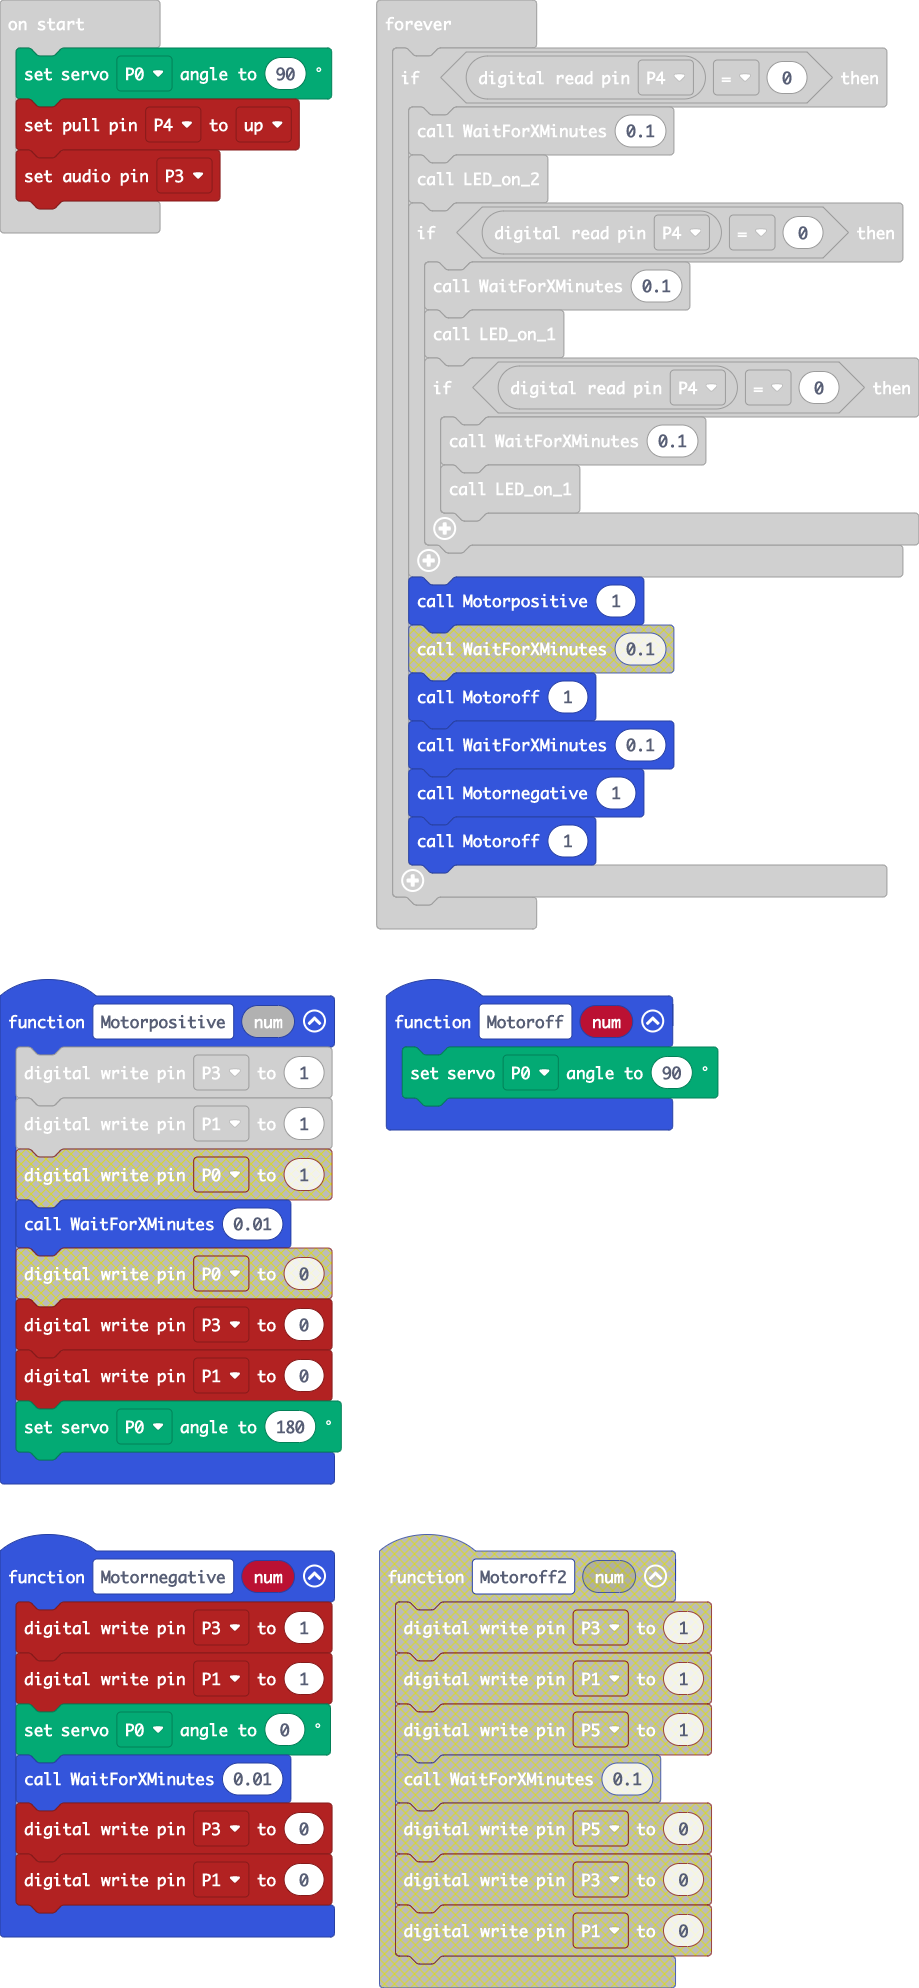
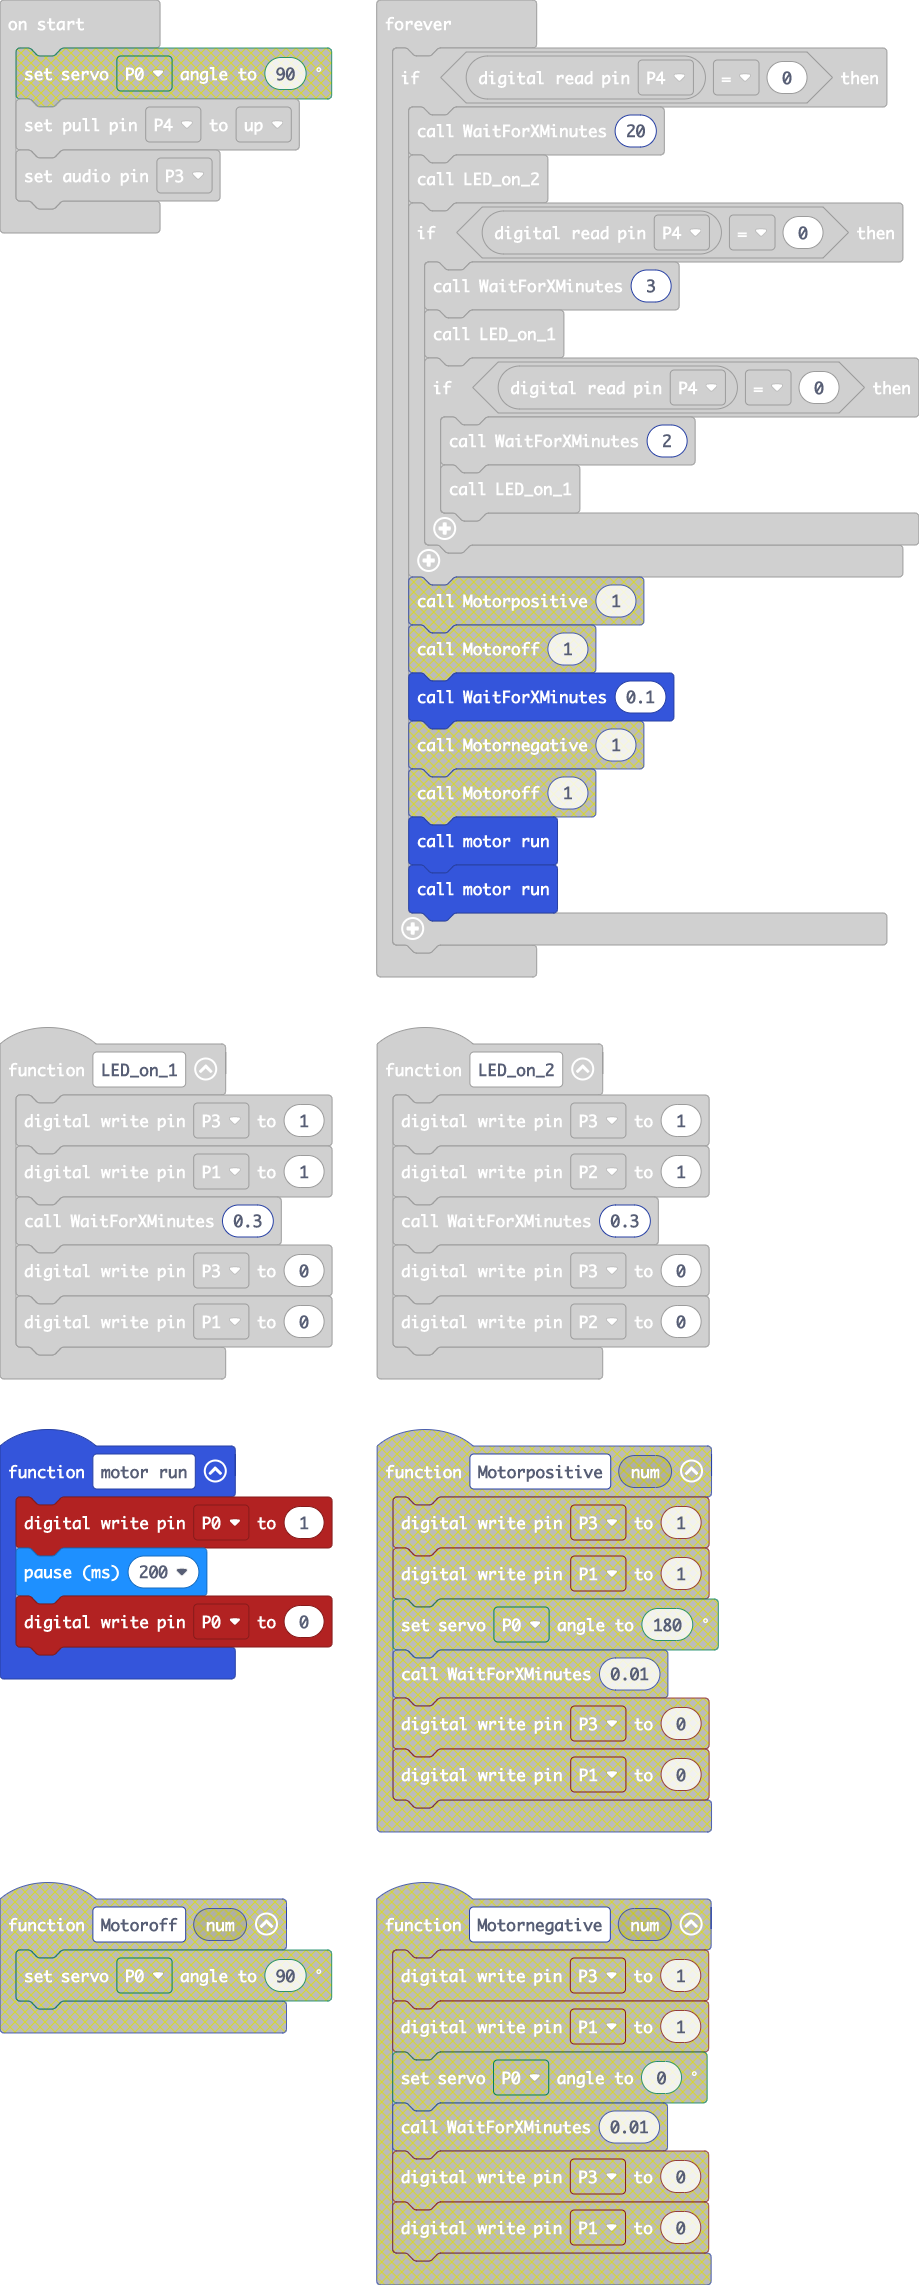
Update main.blocks, main.ts

diff --git a/main.ts b/main.ts
@@ -1,60 +1,43 @@
-function Motornegative (num: number) {
-    pins.digitalWritePin(DigitalPin.P3, 1)
-    pins.digitalWritePin(DigitalPin.P1, 1)
-    servos.P0.setAngle(0)
-    WaitForXMinutes(0.01)
-    pins.digitalWritePin(DigitalPin.P3, 0)
-    pins.digitalWritePin(DigitalPin.P1, 0)
-}
 function LED_on_2 () {
     pins.digitalWritePin(DigitalPin.P3, 1)
     pins.digitalWritePin(DigitalPin.P2, 1)
-    WaitForXMinutes(0.1)
+    WaitForXMinutes(0.3)
     pins.digitalWritePin(DigitalPin.P3, 0)
     pins.digitalWritePin(DigitalPin.P2, 0)
-}
-function Motorpositive (num: number) {
-    pins.digitalWritePin(DigitalPin.P3, 1)
-    pins.digitalWritePin(DigitalPin.P1, 1)
-    servos.P0.setAngle(180)
-    WaitForXMinutes(0.01)
-    pins.digitalWritePin(DigitalPin.P3, 0)
-    pins.digitalWritePin(DigitalPin.P1, 0)
 }
 function WaitForXMinutes (x: number) {
     for (let index = 0; index < x * 60; index++) {
         basic.pause(1000)
     }
 }
+function motor_run () {
+    pins.digitalWritePin(DigitalPin.P0, 1)
+    basic.pause(200)
+    pins.digitalWritePin(DigitalPin.P0, 0)
+}
 function LED_on_1 () {
     pins.digitalWritePin(DigitalPin.P3, 1)
     pins.digitalWritePin(DigitalPin.P1, 1)
-    WaitForXMinutes(0.1)
+    WaitForXMinutes(0.3)
     pins.digitalWritePin(DigitalPin.P3, 0)
     pins.digitalWritePin(DigitalPin.P1, 0)
 }
-function Motoroff (num: number) {
-    servos.P0.setAngle(90)
-}
-servos.P0.setAngle(90)
 pins.setPull(DigitalPin.P4, PinPullMode.PullUp)
 pins.setAudioPin(AnalogPin.P3)
 basic.forever(function () {
     if (pins.digitalReadPin(DigitalPin.P4) == 0) {
-        WaitForXMinutes(0.1)
+        WaitForXMinutes(20)
         LED_on_2()
         if (pins.digitalReadPin(DigitalPin.P4) == 0) {
-            WaitForXMinutes(0.1)
+            WaitForXMinutes(3)
             LED_on_1()
             if (pins.digitalReadPin(DigitalPin.P4) == 0) {
-                WaitForXMinutes(0.1)
+                WaitForXMinutes(2)
                 LED_on_1()
             }
         }
-        Motorpositive(1)
-        Motoroff(1)
+        motor_run()
         WaitForXMinutes(0.1)
-        Motornegative(1)
-        Motoroff(1)
+        motor_run()
     }
 })
